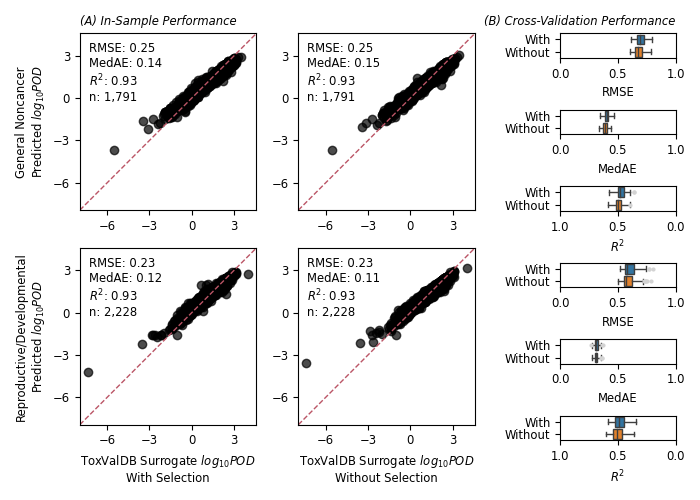
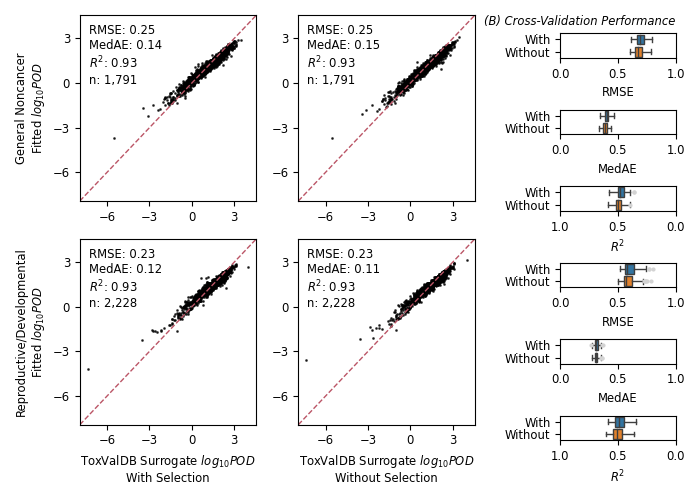
Refactor in-sample performance: reduce marker size

diff --git a/plotting/model_performance.py b/plotting/model_performance.py
@@ -137,7 +137,7 @@ def _in_sample_performance_scatterplots(
     performance comparisons.
     '''
 
-    title = '(A) In-Sample Performance'
+    title = '(A) Mean Cross-Validation Predictions'
 
     all_axs = []
     # Initialize the limits.
@@ -153,6 +153,7 @@ def _in_sample_performance_scatterplots(
             all_axs.append(ax)
 
             y_pred, _, y_true = results_analyzer.get_in_sample_prediction(model_key)
+            # y_pred, y_true = results_analyzer.get_out_sample_prediction(model_key)
 
             ## Set labels depending on the Axes.
             xlabel, ylabel = '', ''
@@ -161,9 +162,9 @@ def _in_sample_performance_scatterplots(
                 xlabel = f'{plot_settings.surrogate_label} {plot_settings.prediction_label}\n{select_features}'
             if j == 0:
                 effect = plot_settings.label_for_effect[key_for['target_effect']]
-                ylabel = f'{effect}\nPredicted {plot_settings.prediction_label}'
-                if i == 0:
-                    ax.set_title(title, loc='left', size='small', style='italic')
+                ylabel = f'{effect}\nFitted {plot_settings.prediction_label}'
+                # if i == 0:
+                    # ax.set_title(title, loc='left', size='small', style='italic')
             ax.set_xlabel(xlabel, size='small')
             ax.set_ylabel(ylabel, size='small')
             
@@ -173,7 +174,8 @@ def _in_sample_performance_scatterplots(
                 y_pred,
                 function_for_metric, 
                 plot_settings.label_for_metric,
-                color='black'
+                color='black',
+                size=plot_settings.marker_size_for_sample_type['out']
             )
 
             # Update the limits for the one-one line.

diff --git a/plotting/utilities.py b/plotting/utilities.py
@@ -54,6 +54,7 @@ def generate_scatterplot(
         label_for_metric,
         with_sample_size=True,
         color='black', 
+        size=None,
         alpha=0.7,
         highlight_size=None,
         main_size=None,
@@ -132,7 +133,8 @@ def generate_scatterplot(
             y_true, 
             y_pred, 
             alpha=alpha, 
-            color=color
+            color=color,
+            s=size
             )
 
     ## Set the performance scores as text.
